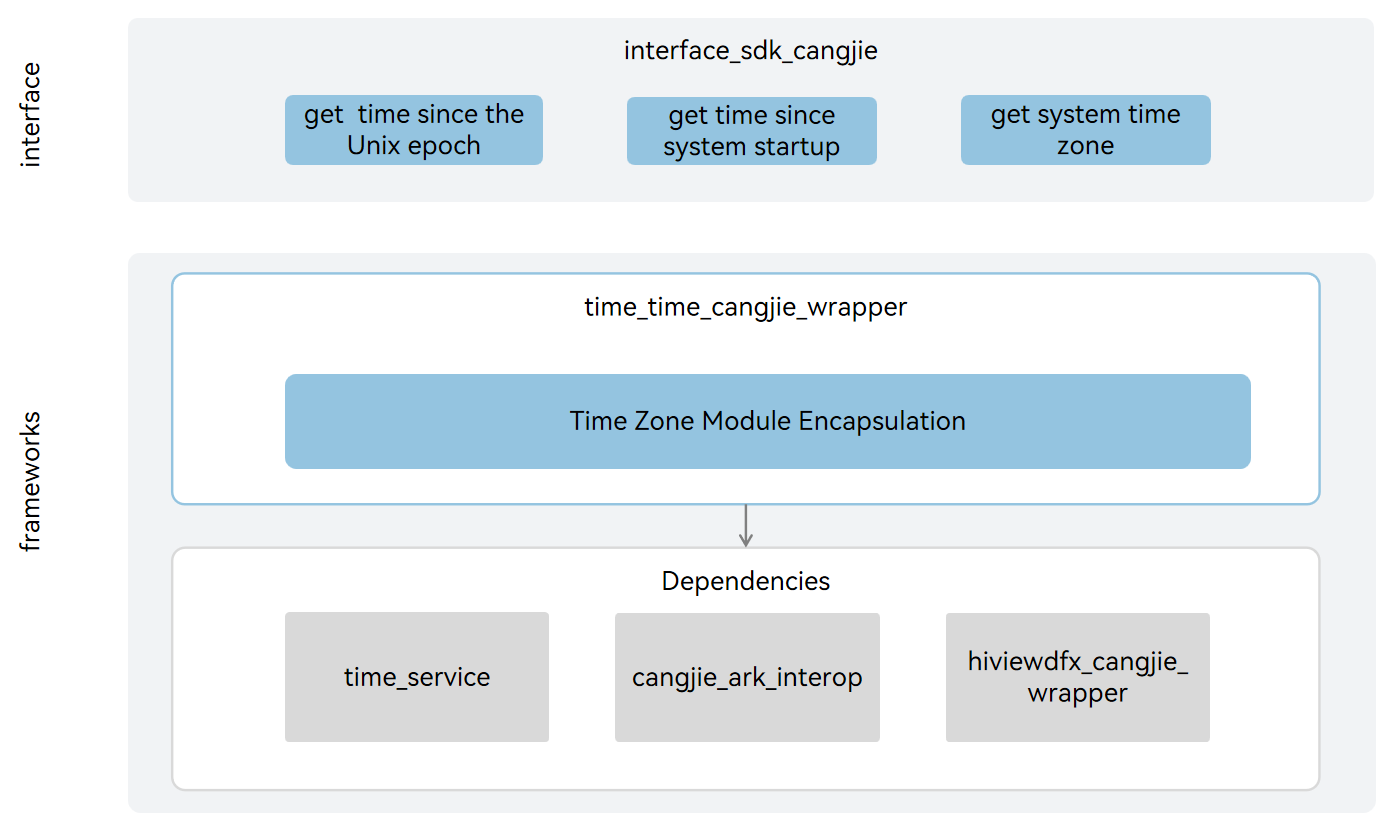
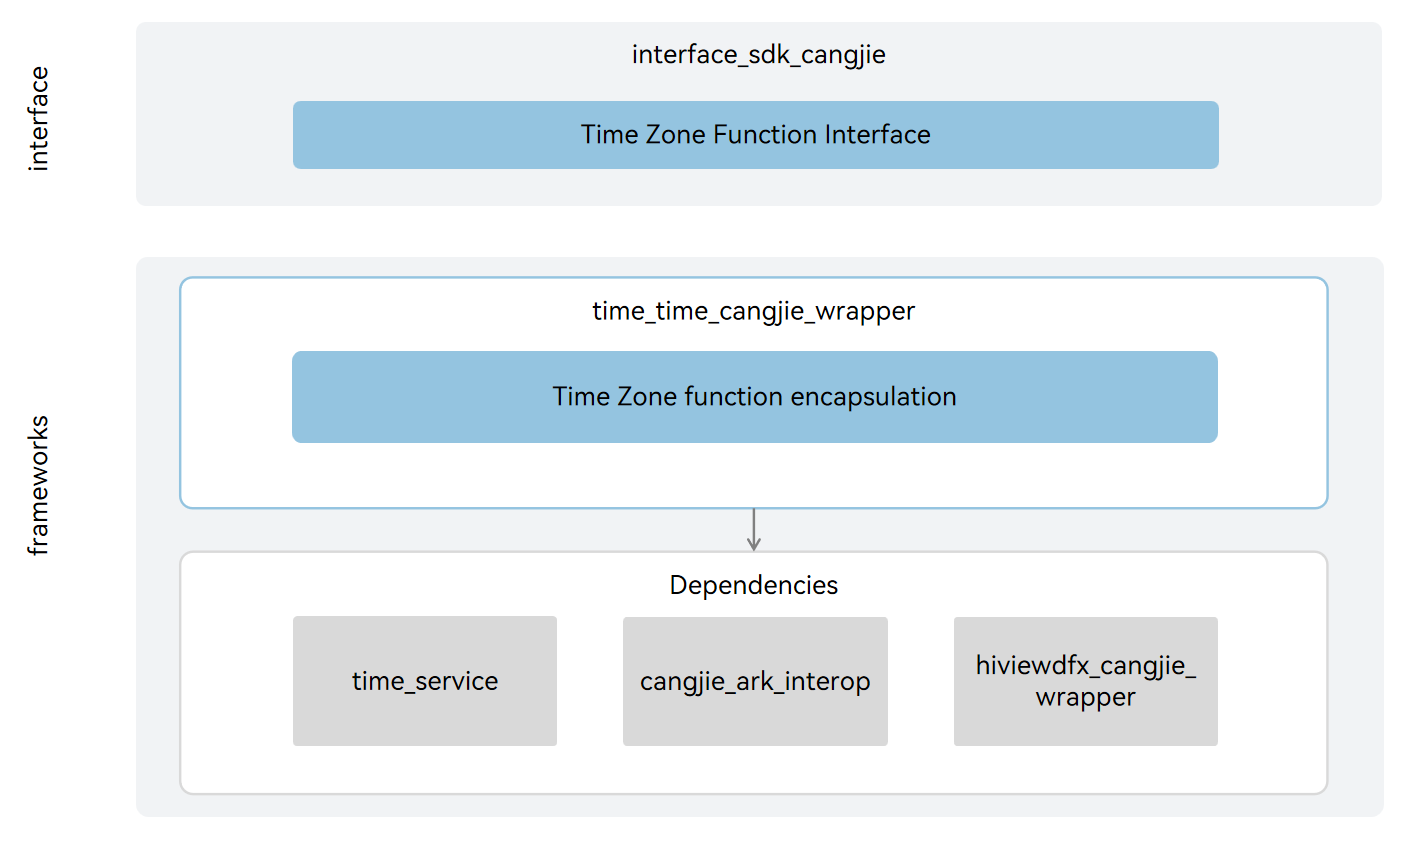
fix readme

diff --git a/README.md b/README.md
@@ -2,15 +2,7 @@
 
 ## Introduction
 
-The Time Zone Cangjie Wrapper provides time zone-related capabilities for developers using the Cangjie language for application development on OpenHarmony. The time zone subsystem provides the OpenHarmony system with the ability to manage system time zones and timing, including:
-
-- **Time Zone Management**
-  Unified management of system time zones, including setting/getting system time, date, time zone, while providing system boot time acquisition.
-
-- **Timing Capabilities**
-  Provides system timer capabilities. Includes timer creation, start, stop, and destruction. Three types of timers are provided: system boot time timing timers, system current time timing timers, and wake-up timers.
-
-The current time zone Cangjie wrapper supports standard devices and only provides the ability to obtain time zone information.
+The Time Zone Cangjie Wrapper provides time zone-related capabilities for developers using the Cangjie language for application development on OpenHarmony. The Time Zone Cangjie Wrapper provides the ability to obtain the system time zone and only supports standard devices.
 
 ## System Architecture
 
@@ -20,21 +12,17 @@ The current time zone Cangjie wrapper supports standard devices and only provide
 
 As shown in the architecture diagram:
 
-Interface Layer
+Interface Layer:
 
-- Get Unix Epoch Time: Provides developers with the ability to obtain time elapsed since the Unix epoch.
-- Get System Boot Time: Provides developers with the ability to obtain time elapsed since system boot.
-- Get System Time Zone: Provides developers with the ability to obtain the current system time zone.
+- Time Zone Function Interface: Provides system time and system time zone functions. Developers can obtain the system time and time zone.
 
-Framework Layer
+Framework Layer:
 
-- Get Unix Epoch Time Function Encapsulation: Based on the ability to get Unix epoch time provided by the underlying time zone component, implements the function of getting Unix epoch time in Cangjie.
-- Get System Boot Time Function Encapsulation: Based on the ability to get system boot time provided by the underlying time zone component, implements the function of getting system boot time in Cangjie.
-- Get System Time Zone Function Encapsulation: Based on the ability to get system time zone provided by the underlying time zone component, implements the function of getting system time zone in Cangjie.
+- -Time zone function encapsulation: This encapsulation layer is a Cangjie encapsulation implementation for obtaining system time and system time zone capabilities.
 
 Dependency Component Introduction in Architecture Diagram
 
-- time_service: Responsible for providing basic time zone functionality, encapsulating C language interfaces for interoperability with Cangjie.
+- time_service: Responsible for providing basic time zone functions.
 - cangjie_ark_interop: Responsible for providing Cangjie annotation class definitions for API annotation, and providing BusinessException exception class definitions thrown to users.
 - hiviewdfx_cangjie_wrapper: Responsible for providing log interfaces for printing logs at critical paths.
 
@@ -58,6 +46,7 @@ Provides the following time zone functions:
 - Get system time zone
 
 For time zone-related APIs, please refer to [Time Zone API Reference](https://gitcode.com/openharmony-sig/arkcompiler_cangjie_ark_interop/blob/master/doc/API_Reference/source_en/apis/BasicServicesKit/cj-apis-system_date_time.md).
+For relevant guidelines, please refer to the [Time Zone Guide](https://gitcode.com/openharmony-sig/arkcompiler_cangjie_ark_interop/blob/master/doc/Dev_Guide/source_en/system_date_time/cj-system_data_time.md).
 
 ## Constraints
 

diff --git a/README_zh.md b/README_zh.md
@@ -2,7 +2,7 @@
 
 ## 简介
 
-时间时区仓颉封装是 OpenHarmony 上面向开发者提供使用仓颉语言进行应用开发时的时间时区相关能力，为 OpenHarmony 系统提供了管理系统时间时区和定时的能力，且仅支持standard设备。
+时间时区仓颉封装是 OpenHarmony 上面向开发者提供使用仓颉语言进行应用开发时的时间时区相关能力。时间时区仓颉封装提供了获取系统时间时区的能力，仅支持standard设备。
 
 ## 系统架构
 
